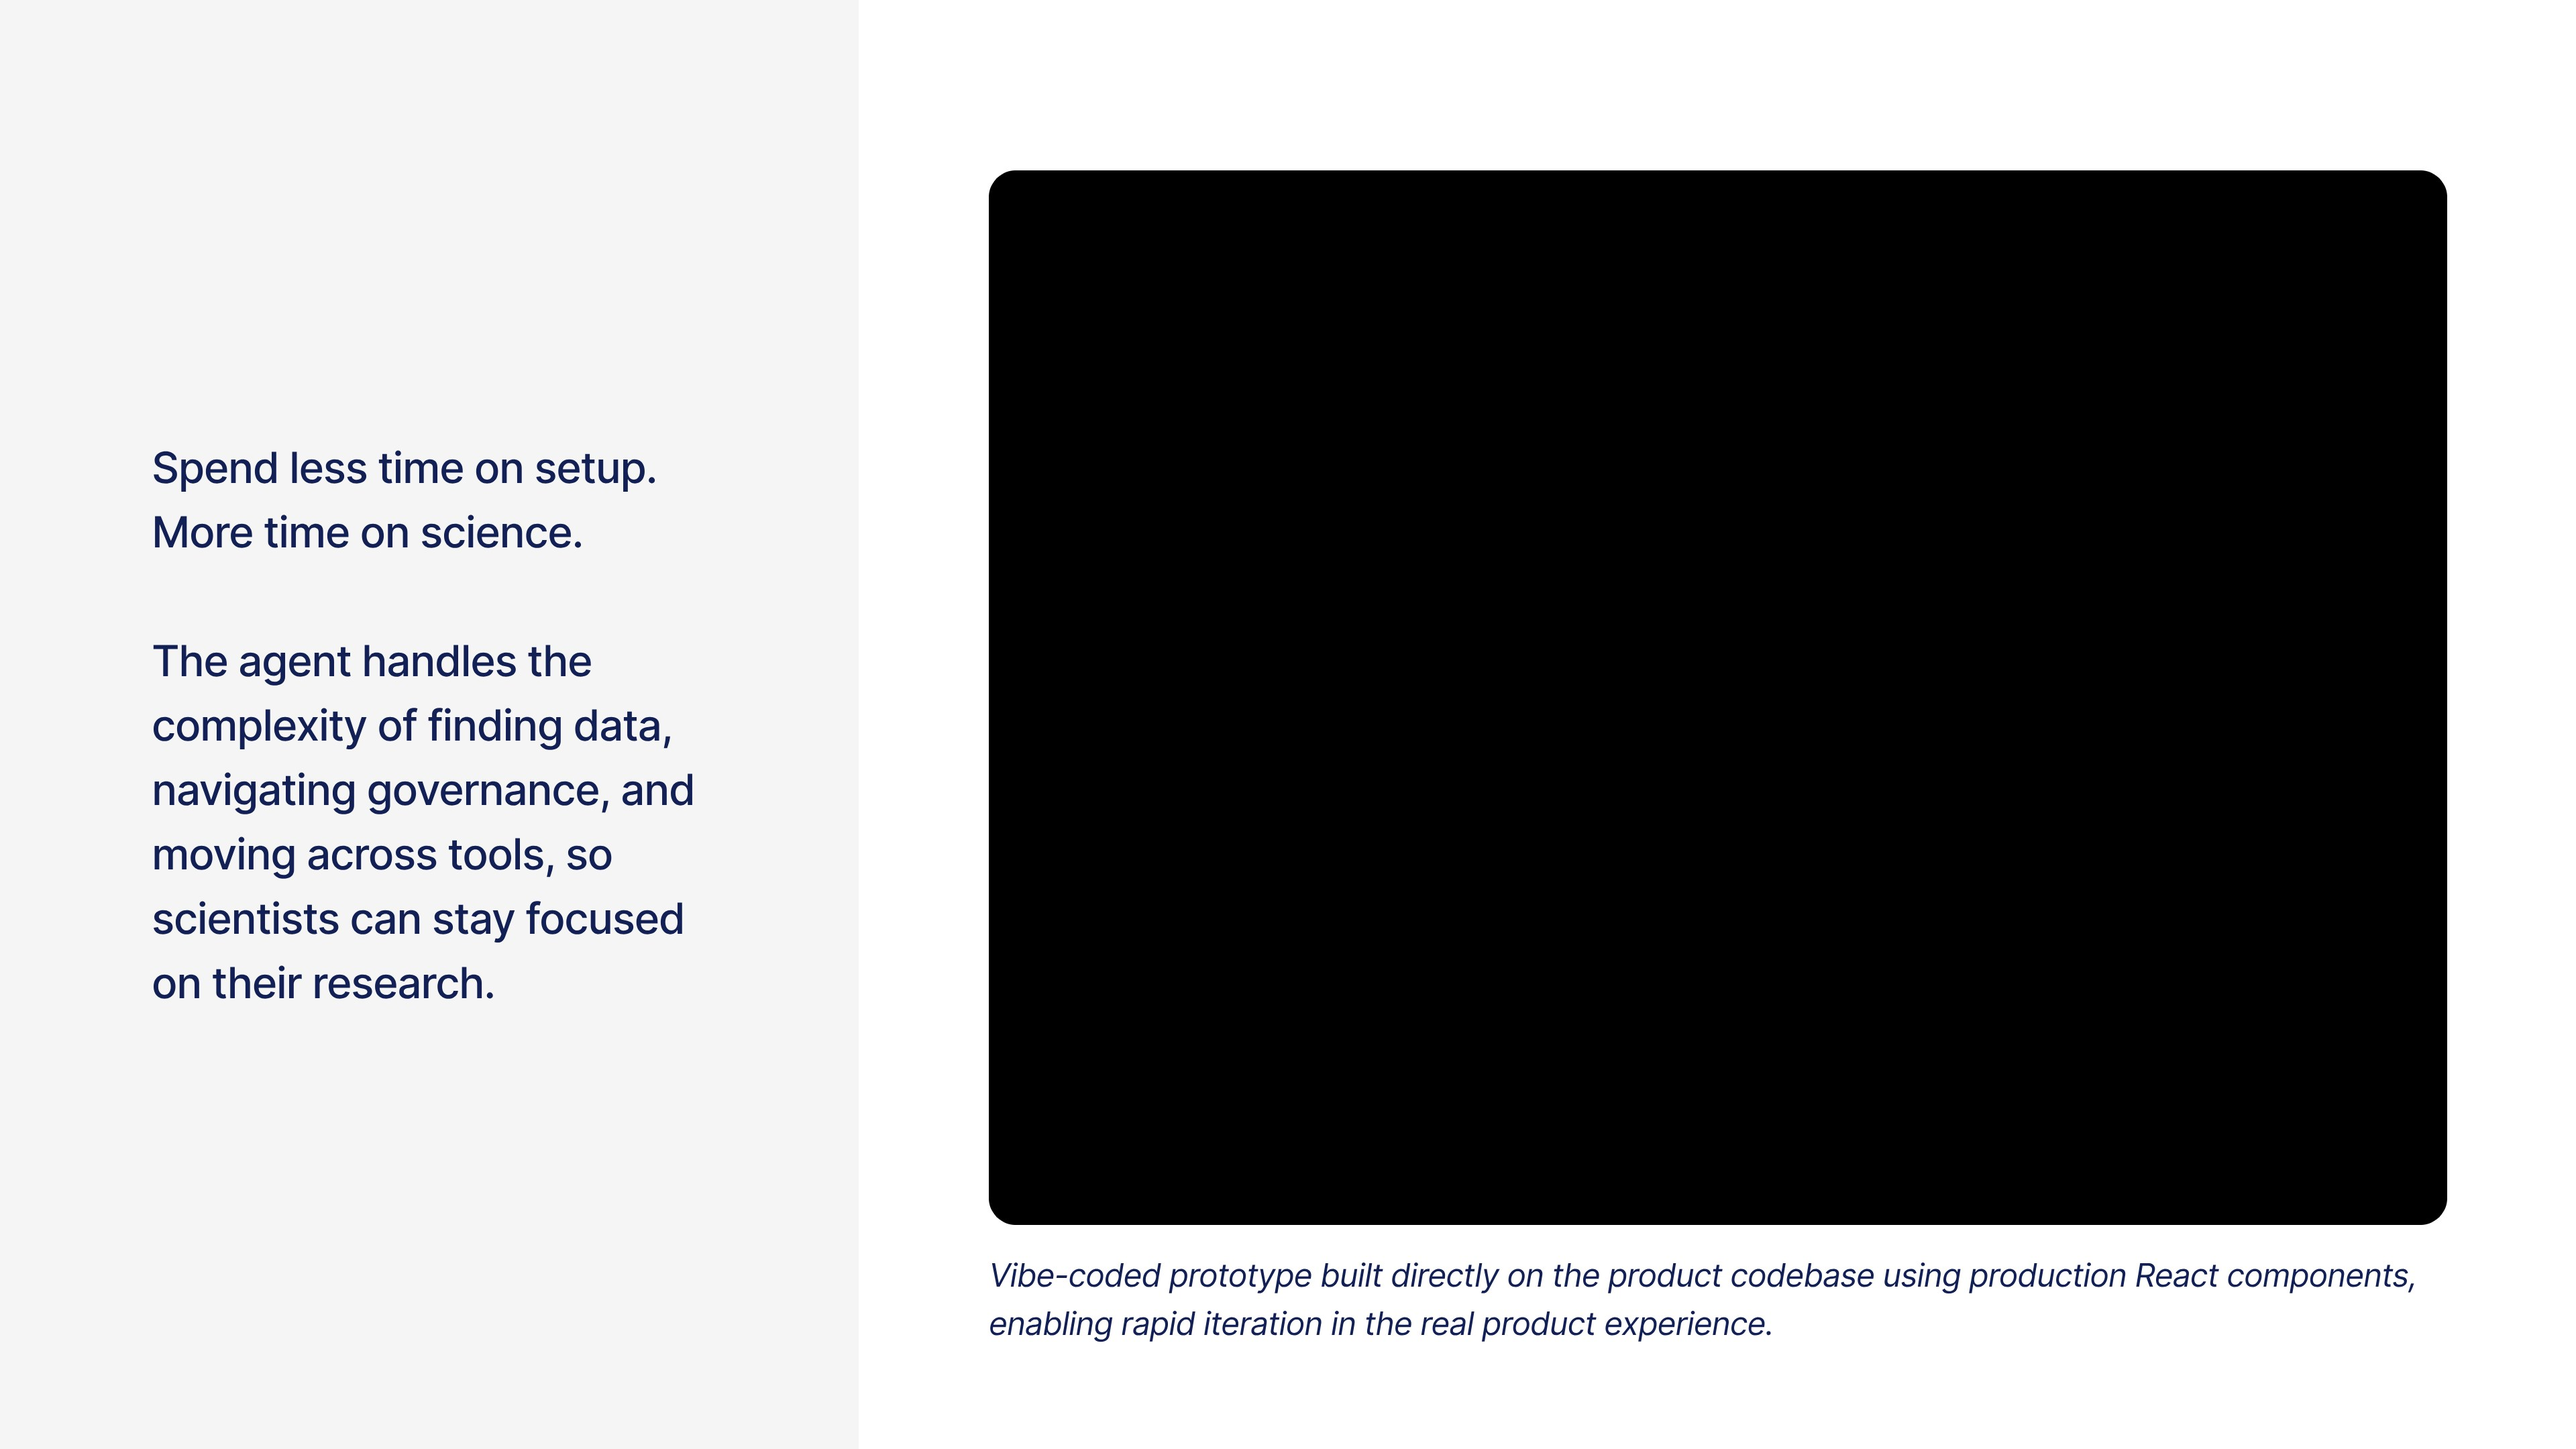
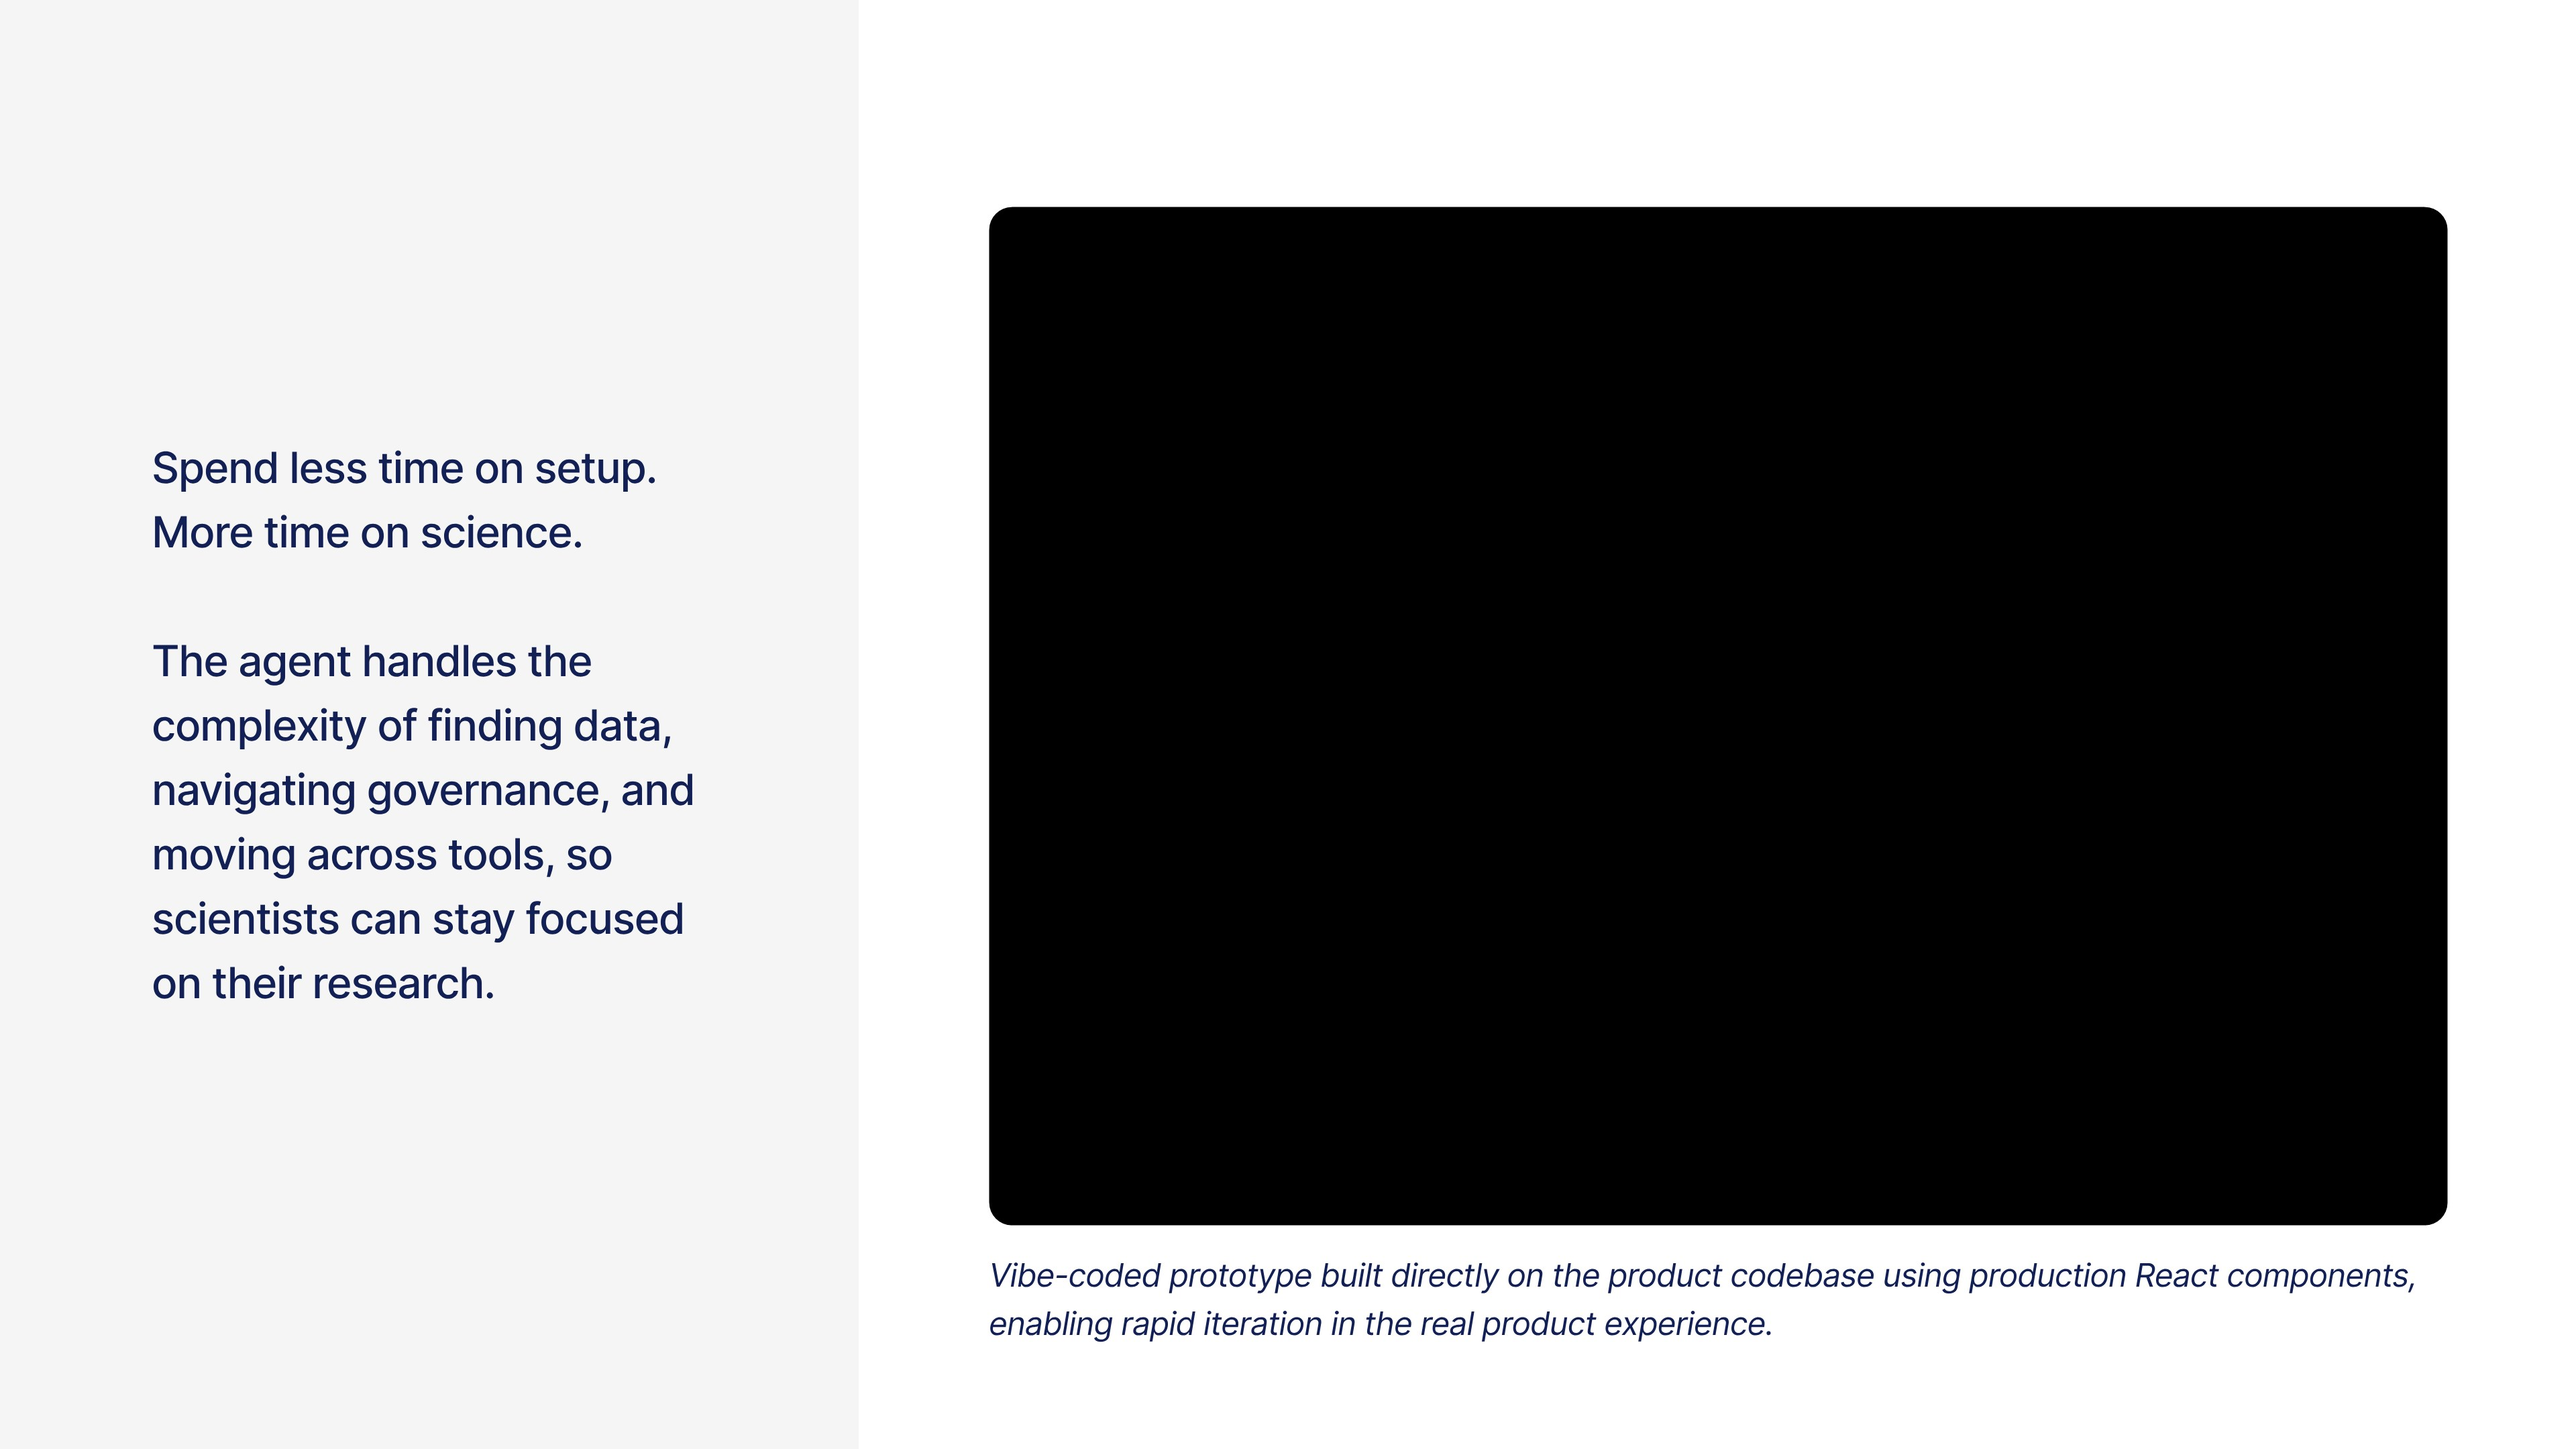
Fit slide 67's frame to the prototype recording so the matte is even on all sides.

Changed region(s): [[0.375, 0.0931, 0.9688, 0.1551]]

diff --git a/app.js b/app.js
@@ -67,6 +67,15 @@ const FRAME_WB_SHOT = {
   radius: 16 / 1920,
 };
 
+// 2276x1558 recording + 23px even matte. The slide's black box is shortened to match.
+const FRAME_PROTO = {
+  left: 737 / 1920,
+  top: 154 / 1080,
+  width: 1087 / 1920,
+  height: 759 / 1080,
+  radius: 17 / 1920,
+};
+
 // Crop 1440x1014 + 23px even matte. Taller than the previous Claude hole so all four sides match.
 const FRAME_CLAUDE = {
   left: 319 / 1920,
@@ -101,7 +110,7 @@ const VIDEOS = {
     ...FRAME_WB_SHOT,
   },
   60: { src: "./media/aligned-pms-cpo.mp4", vw: 1440, vh: 1024, ...FRAME_SIDE_WB },
-  67: { src: "./media/workbench-prototype.mp4", vw: 2276, vh: 1558, ...FRAME_SIDE },
+  67: { src: "./media/workbench-prototype.mp4", vw: 2276, vh: 1558, ...FRAME_PROTO },
 };
 
 const reduceMotion = window.matchMedia("(prefers-reduced-motion: reduce)").matches;
